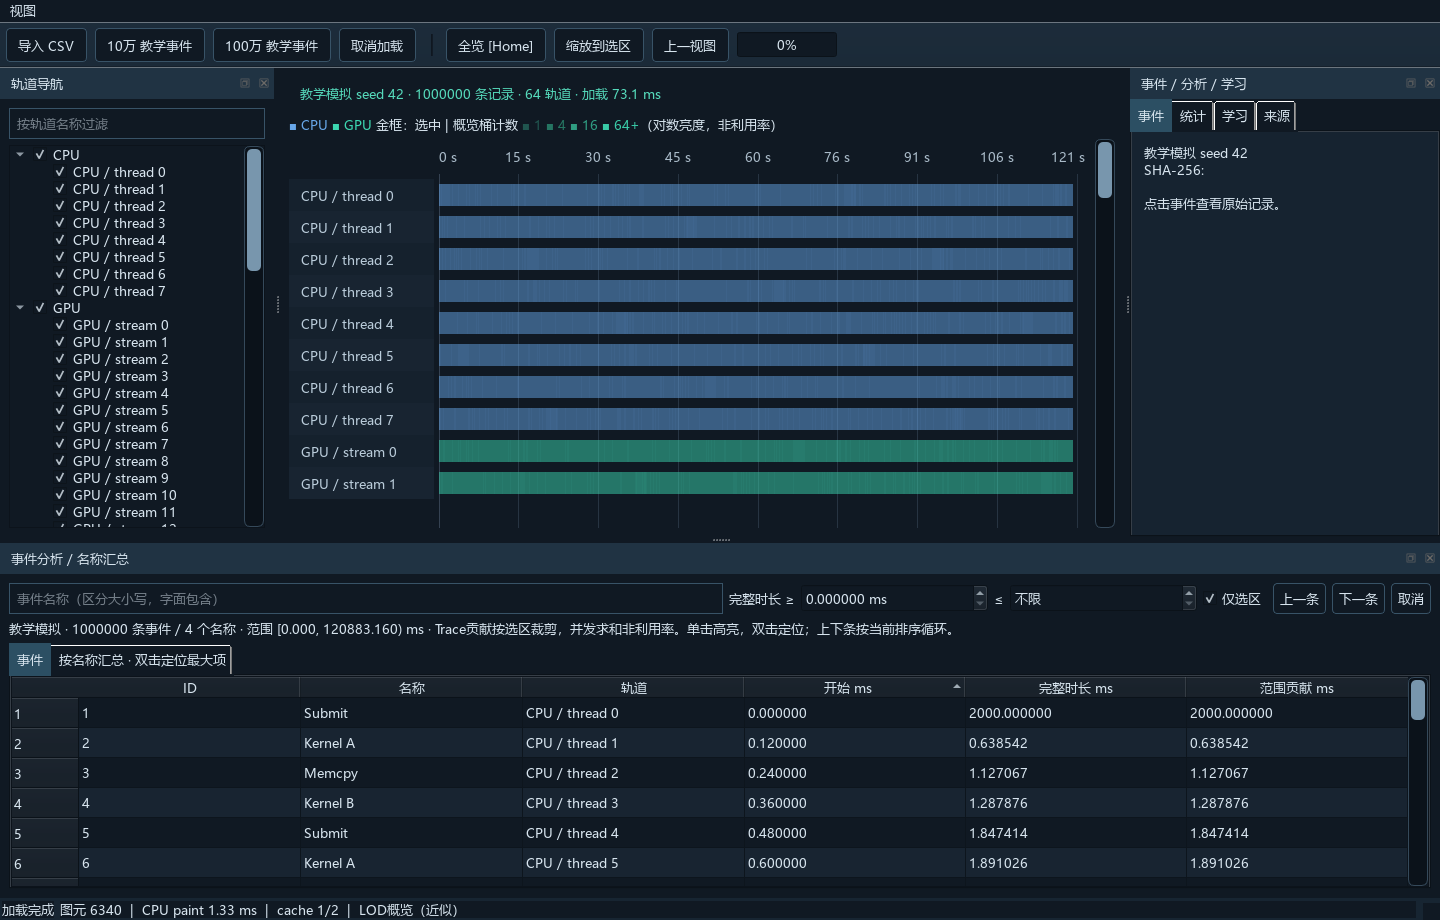
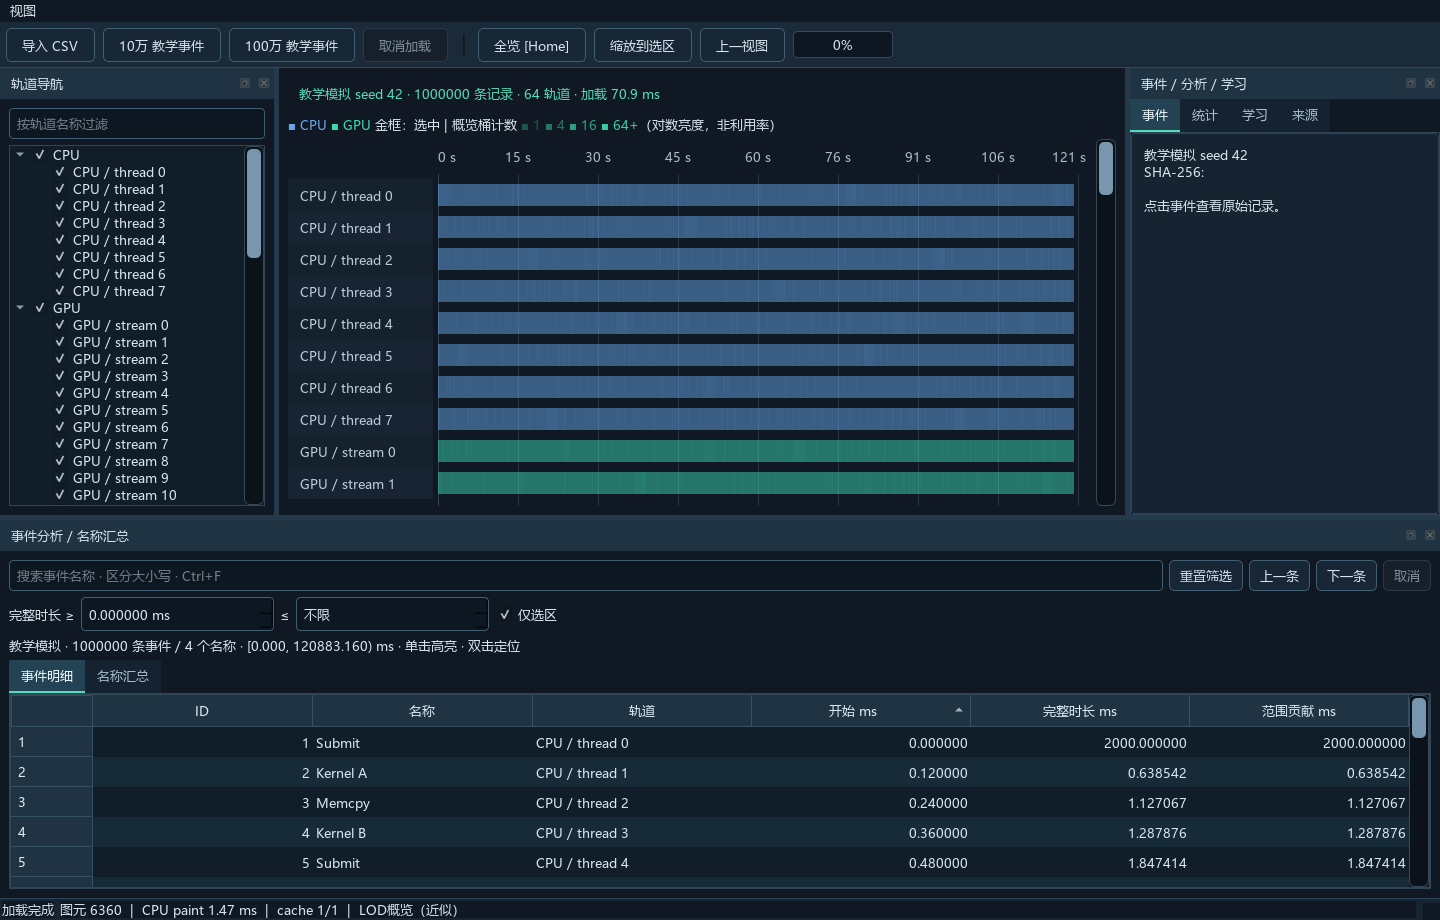
Polish dark workspace and searchable event interactions

Changed region(s): [[0.0, 0.0913, 1.0, 0.9739], [0.0, 0.0304, 0.625, 0.0609]]

diff --git a/src/ui_widgets/event_explorer.cpp b/src/ui_widgets/event_explorer.cpp
@@ -31,6 +31,10 @@ QVariant EventAnalysisModel::data(const QModelIndex& index,int role) const {
     if(!index.isValid() || index.column()<0 || index.column()>=columnCount()) return {};
     const auto* event=eventAt(index.row()); if(!event) return {};
     if(role==Qt::UserRole) return QVariant::fromValue(qulonglong(event->id));
+    if(role==Qt::TextAlignmentRole) {
+        const bool number=groups_?index.column()>0:(index.column()==0 || index.column()>=3);
+        return int((number?Qt::AlignRight:Qt::AlignLeft)|Qt::AlignVCenter);
+    }
     if(role!=Qt::DisplayRole && role!=Qt::ToolTipRole) return {};
     if(groups_) {
         const auto& group=result_->groups[std::size_t(index.row())];
@@ -69,9 +73,12 @@ void EventAnalysisModel::sort(int column,Qt::SortOrder order) {
 EventExplorer::EventExplorer(QWidget* parent):QWidget(parent) {
     setObjectName("eventExplorer");
     setToolTip(QStringLiteral("筛选只作用于本面板；现有帧分析导出仍使用统计页的组和选区，不包含这里的名称/时长筛选。"));
-    auto* layout=new QVBoxLayout(this); auto* controls=new QHBoxLayout;
+    auto* layout=new QVBoxLayout(this); auto* searchRow=new QHBoxLayout; auto* controls=new QHBoxLayout;
     text_=new QLineEdit; text_->setObjectName("eventSearch");
-    text_->setPlaceholderText(QStringLiteral("事件名称（区分大小写，字面包含）")); controls->addWidget(text_,2);
+    text_->setPlaceholderText(QStringLiteral("搜索事件名称 · 区分大小写 · Ctrl+F")); text_->setClearButtonEnabled(true);
+    text_->setAccessibleName(QStringLiteral("搜索事件名称")); searchRow->addWidget(text_,1);
+    auto* reset=new QPushButton(QStringLiteral("重置筛选")); reset->setObjectName("eventReset");
+    reset->setToolTip(QStringLiteral("清空名称和时长条件，恢复仅选区；保留当前排序。")); searchRow->addWidget(reset);
     minimum_=new QDoubleSpinBox; maximum_=new QDoubleSpinBox;
     minimum_->setObjectName("eventMinimum"); maximum_->setObjectName("eventMaximum");
     for(auto* spin:{minimum_,maximum_}) { spin->setRange(0,1e9); spin->setDecimals(6); spin->setSuffix(" ms"); }
@@ -83,7 +90,8 @@ EventExplorer::EventExplorer(QWidget* parent):QWidget(parent) {
     previous_=new QPushButton(QStringLiteral("上一条")); next_=new QPushButton(QStringLiteral("下一条"));
     previous_->setObjectName("eventPrevious"); next_->setObjectName("eventNext");
     cancel_=new QPushButton(QStringLiteral("取消")); cancel_->setObjectName("eventCancel");
-    controls->addWidget(previous_); controls->addWidget(next_); controls->addWidget(cancel_); layout->addLayout(controls);
+    searchRow->addWidget(previous_); searchRow->addWidget(next_); searchRow->addWidget(cancel_);
+    controls->addStretch(); layout->addLayout(searchRow); layout->addLayout(controls);
     status_=new QLabel(QStringLiteral("加载数据后可搜索事件")); status_->setWordWrap(true); layout->addWidget(status_);
     events_=new EventAnalysisModel(false,this); groups_=new EventAnalysisModel(true,this);
     events_->setObjectName("eventResultsModel"); groups_->setObjectName("eventGroupsModel");
@@ -94,15 +102,21 @@ EventExplorer::EventExplorer(QWidget* parent):QWidget(parent) {
         table->setSelectionBehavior(QAbstractItemView::SelectRows); table->setSelectionMode(QAbstractItemView::SingleSelection);
         table->setEditTriggers(QAbstractItemView::NoEditTriggers); table->setAlternatingRowColors(true);
         table->verticalHeader()->setSectionResizeMode(QHeaderView::Fixed);
+        table->verticalHeader()->setDefaultSectionSize(30); table->setShowGrid(false);
         table->horizontalHeader()->setSectionResizeMode(QHeaderView::Stretch);
         table->setSortingEnabled(true);
     }
     table_->sortByColumn(3,Qt::AscendingOrder); summary_->sortByColumn(2,Qt::DescendingOrder);
-    auto* tabs=new QTabWidget; tabs->addTab(table_,QStringLiteral("事件")); tabs->addTab(summary_,QStringLiteral("按名称汇总 · 双击定位最大项"));
+    auto* tabs=new QTabWidget; tabs->addTab(table_,QStringLiteral("事件明细")); tabs->addTab(summary_,QStringLiteral("名称汇总"));
+    tabs->setTabToolTip(0,QStringLiteral("单击高亮，双击定位；上下条按当前事件排序循环。"));
+    tabs->setTabToolTip(1,QStringLiteral("同名事件聚合；双击定位贡献最大项。并发时长求和不是利用率。"));
     layout->addWidget(tabs,1);
     debounce_.setSingleShot(true); debounce_.setInterval(180);
     connect(&debounce_,&QTimer::timeout,this,&EventExplorer::submit);
     connect(text_,&QLineEdit::textChanged,this,&EventExplorer::schedule);
+    connect(reset,&QPushButton::clicked,this,&EventExplorer::resetFilters);
+    // 回车立即提交，停止防抖计时，避免同一输入重复提交。
+    connect(text_,&QLineEdit::returnPressed,this,[this] { schedule(); debounce_.stop(); submit(); });
     connect(minimum_,&QDoubleSpinBox::valueChanged,this,&EventExplorer::schedule);
     connect(maximum_,&QDoubleSpinBox::valueChanged,this,&EventExplorer::schedule);
     connect(selectedOnly_,&QCheckBox::toggled,this,&EventExplorer::schedule);
@@ -136,17 +150,26 @@ EventExplorer::EventExplorer(QWidget* parent):QWidget(parent) {
         const auto result=controller_.result(); events_->setResult(result); groups_->setResult(result);
         if(selectedId_) selectId(*selectedId_);
         setReady(true); cancel_->setEnabled(false);
-        status_->setText(QStringLiteral("%1 · %2 条事件 / %3 个名称 · 范围 [%4, %5) ms · %6。单击高亮，双击定位；上下条按当前排序循环。")
+        status_->setText(QStringLiteral("%1 · %2 条事件 / %3 个名称 · [%4, %5) ms · %6")
             .arg(result->source->synthetic?QStringLiteral("教学模拟"):QStringLiteral("外部输入"))
             .arg(qulonglong(result->rows.size())).arg(qulonglong(result->groups.size()))
             .arg(double(result->filter.range.begin)/1e6,0,'f',3).arg(double(result->filter.range.end)/1e6,0,'f',3)
-            .arg(result->source->frames?QStringLiteral("Present归属，贡献为完整间隔，非GPU时长"):
-                QStringLiteral("Trace贡献按选区裁剪，并发求和非利用率")));
+            .arg(result->rows.empty()?QStringLiteral("无匹配，请调整筛选"):QStringLiteral("单击高亮 · 双击定位")));
+        status_->setToolTip(result->source->frames?QStringLiteral("Present归属，贡献为完整间隔，非GPU时长。"):
+            QStringLiteral("Trace贡献按选区裁剪，并发求和非利用率。"));
     });
     connect(&controller_,&EventAnalysisController::failed,this,[this](const QString& error) {
         setReady(false); cancel_->setEnabled(false); status_->setText(QStringLiteral("搜索失败：")+error);
     });
     setReady(false); cancel_->setEnabled(false);
+}
+/// 聚焦而不改动条件或发起查询，保留当前结果。
+void EventExplorer::focusSearch() { text_->setFocus(Qt::ShortcutFocusReason); text_->selectAll(); }
+/// 阻断四个输入的逐项通知，批量重置后仅调度一次。
+void EventExplorer::resetFilters() {
+    const QSignalBlocker textBlock(text_),minimumBlock(minimum_),maximumBlock(maximum_),selectionBlock(selectedOnly_);
+    text_->clear(); minimum_->setValue(0); maximum_->setValue(0); selectedOnly_->setChecked(true);
+    schedule(); focusSearch();
 }
 /// 相同上下文不因帧表独立排序而重复搜索，换会话不继承旧ID。
 void EventExplorer::setContext(Snapshot source,std::vector<std::uint32_t> tracks,std::optional<TimeRange> selection) {

diff --git a/src/ui_widgets/theme.cpp b/src/ui_widgets/theme.cpp
@@ -1,0 +1,54 @@
+/// @file theme.cpp
+/// @brief 深色工作台样式，显式区分焦点、选择、禁用、悬停和滚动滑块。
+#include "ui_widgets/theme.h"
+namespace gpuview {
+/// 仅影响绘制外观，不修改模型、查询和缓存键。
+QString darkTheme() {
+    return QStringLiteral(R"(
+QMainWindow,QWidget { background:#101923; color:#d7e4ee; }
+QToolBar { background:#1b2a38; padding:6px; spacing:8px; border-bottom:1px solid #304555; }
+QToolButton,QPushButton { padding:6px 10px; border:1px solid #415e73; border-radius:5px; background:#182735; }
+QToolButton:hover,QPushButton:hover { background:#29485e; border-color:#7199b5; }
+QToolButton:pressed,QPushButton:pressed { background:#31586e; }
+QToolButton:disabled,QPushButton:disabled { color:#7e8e9b; background:#15202b; border-color:#293947; }
+QPushButton:focus,QToolButton:focus { border:1px solid #55dabb; }
+QDockWidget::title { background:#203343; padding:7px; font-weight:600; }
+QMainWindow::separator { background:#243949; width:5px; height:5px; }
+QMainWindow::separator:hover { background:#55dabb; }
+QTextBrowser { background:#162330; border:1px solid #2e4353; border-radius:4px; padding:8px; }
+QStatusBar { background:#172532; border-top:1px solid #304555; }
+QLineEdit,QComboBox,QDoubleSpinBox { padding:5px; border:1px solid #415e73; border-radius:4px; background:#0d1721; selection-background-color:#315f76; }
+QLineEdit:focus,QComboBox:focus,QDoubleSpinBox:focus { border-color:#55dabb; }
+QLineEdit:disabled,QDoubleSpinBox:disabled { color:#7e8e9b; border-color:#293947; }
+QCheckBox { spacing:6px; padding:3px; }
+QTreeWidget,QTableView { background:#111e29; alternate-background-color:#172a38; border:1px solid #304555; selection-background-color:#315c73; selection-color:#ffffff; gridline-color:#273d4e; }
+QTableView::item { padding:3px 6px; }
+QTableView::item:selected,QTreeWidget::item:selected { background:#315c73; color:#ffffff; }
+QTableView::item:hover,QTreeWidget::item:hover { background:#253e50; }
+QHeaderView::section { background:#203343; color:#dceaf3; padding:5px 7px; border:0; border-right:1px solid #365063; border-bottom:1px solid #365063; }
+QTableCornerButton::section { background:#203343; border:1px solid #365063; }
+QTabWidget::pane { border:1px solid #304555; }
+QTabBar::tab { padding:7px 12px; background:#152330; color:#a8bdcd; border-bottom:2px solid transparent; }
+QTabBar::tab:selected { background:#234354; color:#f0fafc; border-bottom:2px solid #55dabb; }
+QTabBar::tab:hover { background:#294353; }
+QScrollBar:vertical { background:#0b121a; width:20px; margin:0; border:1px solid #35495a; border-radius:6px; }
+QScrollBar::handle:vertical { background:#7896ad; min-height:40px; margin:2px; border-radius:5px; }
+QScrollBar::handle:vertical:hover { background:#a5c9e0; }
+QScrollBar::handle:vertical:pressed { background:#55dabb; }
+QScrollBar::handle:vertical:disabled { background:#243442; }
+QScrollBar::add-line:vertical,QScrollBar::sub-line:vertical { height:0; border:0; background:transparent; }
+QScrollBar::add-page:vertical,QScrollBar::sub-page:vertical { background:transparent; }
+QScrollBar:horizontal { background:#0b121a; height:16px; border:1px solid #35495a; }
+QScrollBar::handle:horizontal { background:#7896ad; min-width:40px; margin:2px; border-radius:4px; }
+QScrollBar::handle:horizontal:hover { background:#a5c9e0; }
+QScrollBar::add-line:horizontal,QScrollBar::sub-line:horizontal { width:0; background:transparent; }
+QScrollBar::add-page:horizontal,QScrollBar::sub-page:horizontal { background:transparent; }
+QProgressBar { border:1px solid #35495a; border-radius:4px; text-align:center; background:#0d1721; }
+QProgressBar::chunk { background:#2d8e7b; }
+QMenu { background:#192c3b; border:1px solid #415e73; padding:4px; }
+QMenu::item { padding:6px 22px; }
+QMenu::item:selected { background:#315c73; }
+QToolTip { background:#243e50; color:#f0fafc; border:1px solid #7199b5; padding:6px; }
+)");
+}
+}

diff --git a/src/ui_widgets/main_window.cpp b/src/ui_widgets/main_window.cpp
@@ -1,6 +1,7 @@
 /// @file src/ui_widgets/main_window.cpp
 /// @brief Widgets应用组装入口；连接导航、时间轴、统计与导出，不直接解析文件或跑重计算。
 #include "ui_widgets/main_window.h"
+#include "ui_widgets/theme.h"
 #include "ui_widgets/frame_time_widget.h"
 #include "ui_widgets/frame_details_panel.h"
 #include "ui_widgets/event_explorer.h"
@@ -25,11 +26,12 @@
 #include <QTableWidget>
 #include <QHeaderView>
 #include <QMenuBar>
+#include <QAction>
 namespace gpuview {
 /// 组装Dock、工具栏及连接；只协调界面，解析与大规模计算交给后台模块。
 MainWindow::MainWindow(QWidget* parent) : QMainWindow(parent) {
     setWindowTitle(QStringLiteral("GPUView · 性能分析与学习工作台")); resize(1440, 920);
-    setStyleSheet(QStringLiteral("QMainWindow,QWidget{background:#101923;color:#d7e4ee;} QToolBar{background:#1b2a38;padding:6px;spacing:8px;} QToolButton,QPushButton{padding:6px;border:1px solid #385367;border-radius:4px;} QToolButton:hover,QPushButton:hover{background:#2c4f63;} QDockWidget::title{background:#203343;padding:7px;} QTextBrowser{background:#162330;border:0;padding:8px;} QStatusBar{background:#172532;} QLineEdit,QComboBox{padding:5px;border:1px solid #385367;} QTreeWidget,QTableWidget,QTableView{alternate-background-color:#182431;} QTabBar::tab{padding:8px;} QTabBar::tab:selected{background:#2c4f63;} QScrollBar:vertical{background:#0b121a;width:20px;margin:0;border:1px solid #35495a;border-radius:6px;} QScrollBar::handle:vertical{background:#7896ad;min-height:40px;margin:2px;border-radius:5px;} QScrollBar::handle:vertical:hover{background:#a5c9e0;} QScrollBar::handle:vertical:pressed{background:#55dabb;} QScrollBar::handle:vertical:disabled{background:#243442;} QScrollBar::add-line:vertical,QScrollBar::sub-line:vertical{height:0;border:0;background:transparent;} QScrollBar::add-page:vertical,QScrollBar::sub-page:vertical{background:transparent;}"));
+    setStyleSheet(darkTheme());
     auto* toolbar = addToolBar(QStringLiteral("数据与视图")); toolbar->setMovable(false);
     // 文件对话框只采集路径，真正读取交给会话控制器，GUI不解析CSV。
     toolbar->addAction(QStringLiteral("导入 CSV"), this, [this] {
@@ -106,6 +108,11 @@ MainWindow::MainWindow(QWidget* parent) : QMainWindow(parent) {
     connect(timeline_,&TimelineWidget::eventPicked,explorer,[explorer](qulonglong id,const QString&) { if(id) explorer->selectId(id); });
     auto* viewMenu = menuBar()->addMenu(QStringLiteral("视图"));
     viewMenu->addAction(tracksDock->toggleViewAction()); viewMenu->addAction(detailDock->toggleViewAction()); viewMenu->addAction(framesDock->toggleViewAction()); viewMenu->addAction(eventsDock->toggleViewAction());
+    // 窗口级搜索入口先恢复可能关闭的Dock，再聚焦输入，避免隐藏面板吞掉快捷键。
+    auto* searchAction=viewMenu->addAction(QStringLiteral("搜索事件"),this,[eventsDock,explorer] {
+        eventsDock->show(); eventsDock->raise(); explorer->focusSearch();
+    });
+    searchAction->setObjectName("searchEventsAction"); searchAction->setShortcut(QKeySequence::Find);
     auto range = std::make_shared<std::optional<TimeRange>>();
     auto sortState = std::make_shared<std::pair<FrameSort,bool>>(FrameSort::Start,false);
     // 统一汇总当前快照、轨道、组选项、范围和排序；先清空旧范围显示，再发后台统计请求。

diff --git a/src/app/main.cpp b/src/app/main.cpp
@@ -1,6 +1,8 @@
 /// @file src/app/main.cpp
 /// @brief 应用进程入口；建立Qt事件循环，处理教学/CSV启动和离屏截图参数。
 #include "ui_widgets/main_window.h"
+#include "ui_widgets/event_explorer.h"
+#include "ui_widgets/frame_details_panel.h"
 #include <QApplication>
 #include <QTimer>
 #include <QFile>
@@ -27,14 +29,22 @@ int main(int argc, char** argv) {
     const int capture = args.indexOf("--screenshot");
     if (capture >= 0 && capture + 1 < args.size()) {
         const auto path = args[capture + 1];
-        // 快照就绪后安排截图；窗口作为连接上下文，销毁时自动断开，捕获路径按值保存。
+        // 等待真实分析结果，不能用固定1秒延迟假定百万事件已完成。
         QObject::connect(window.controller(), &gpuview::SessionController::snapshotReady, &window, [&window, path, analysis = args.contains("--analysis")] {
-            // 等待布局与异步统计有机会刷新后截图；成功/失败用退出码反馈，不将等待时长作为性能测量。
-            QTimer::singleShot(1000, &window, [&window, path, analysis] {
+            auto* readyTimer=new QTimer(&window); readyTimer->setInterval(100);
+            // 查询只读发布状态；零条结果也算完成，统计失败由全局超时返回非零退出码。
+            QObject::connect(readyTimer,&QTimer::timeout,&window,[&window,path,analysis,readyTimer] {
+                const auto snapshot=window.controller()->snapshot();
+                const auto events=window.findChild<gpuview::EventAnalysisModel*>("eventResultsModel")->result();
+                if(!events || events->source!=snapshot) return;
+                const auto frames=window.findChild<gpuview::FrameTableModel*>()->analysis();
+                if(snapshot->frames && (!frames || frames->source!=snapshot)) return;
+                readyTimer->stop();
                 if (analysis) window.findChild<QTabWidget*>("detailTabs")->setCurrentIndex(1);
                 const bool saved = window.grab().save(path);
                 QCoreApplication::exit(saved ? 0 : 2);
             });
+            readyTimer->start();
         });
         // 事件循环启动后才发起加载；指定输入则导入，否则生成百万教学事件。
         QTimer::singleShot(0, &window, [&window, input] { if (input.isEmpty()) window.controller()->requestSynthetic(1000000); else window.controller()->requestFile(input); });

diff --git a/tests/ui/ui_tests.cpp b/tests/ui/ui_tests.cpp
@@ -19,6 +19,8 @@
 #include <QDoubleSpinBox>
 #include <QTableView>
 #include <QAbstractItemModelTester>
+#include <QAction>
+#include <QCheckBox>
 using namespace gpuview;
 /// Qt Test界面回归集合；在离屏环境模拟输入并断言可观察状态。
 class UiTests : public QObject {
@@ -45,12 +47,25 @@ private slots:
         panel.findChild<QLineEdit*>("eventSearch")->setText("absent");
         QTRY_VERIFY_WITH_TIMEOUT(model->result() && model->result()->filter.text=="absent",5000);
         QCOMPARE(model->rowCount(),0); QVERIFY(!panel.findChild<QPushButton*>("eventNext")->isEnabled());
+        panel.findChild<QDoubleSpinBox*>("eventMinimum")->setValue(1);
+        panel.findChild<QDoubleSpinBox*>("eventMaximum")->setValue(2);
+        panel.findChild<QCheckBox*>("eventSelectionOnly")->setChecked(false);
+        QTest::mouseClick(panel.findChild<QPushButton*>("eventReset"),Qt::LeftButton);
+        QTRY_VERIFY_WITH_TIMEOUT(model->result() && model->result()->filter.text.empty(),5000);
+        QCOMPARE(model->rowCount(),1); QCOMPARE(model->result()->filter.minimum,TimeNs(0));
+        QVERIFY(!model->result()->filter.maximum); QCOMPARE(model->result()->filter.eventColumn,4);
+        QCOMPARE(model->data(model->index(0,4),Qt::TextAlignmentRole).toInt(),int(Qt::AlignRight|Qt::AlignVCenter));
     }
     /// 主窗口把搜索结果ID映射回时间轴，框选范围也传递给独立搜索面板。
     void eventExplorerWindowLink() {
         MainWindow window; window.show(); window.controller()->requestSynthetic(100000);
         auto* explorer=window.findChild<EventExplorer*>(); auto* model=explorer->findChild<EventAnalysisModel*>("eventResultsModel");
         QTRY_VERIFY_WITH_TIMEOUT(model->rowCount()>0,5000);
+        auto* dock=window.findChild<QDockWidget*>("eventsDock"); dock->hide();
+        auto* search=window.findChild<QAction*>("searchEventsAction"); QVERIFY(search);
+        QCOMPARE(search->shortcut(),QKeySequence(QKeySequence::Find)); search->trigger();
+        QVERIFY(dock->isVisible());
+        QTRY_VERIFY(explorer->findChild<QLineEdit*>("eventSearch")->hasFocus());
         const auto id=model->eventAt(0)->id;
         auto* table=explorer->findChild<QTableView*>("eventResults"); table->setCurrentIndex(model->index(0,0));
         QVERIFY(window.timeline()->selectedEvent()); QCOMPARE(window.timeline()->selectedEvent()->id,id);

diff --git a/src/ui_widgets/event_explorer.h b/src/ui_widgets/event_explorer.h
@@ -48,6 +48,8 @@ public:
     void setContext(Snapshot source,std::vector<std::uint32_t> tracks,std::optional<TimeRange> selection);
     /// 以稳定ID选择事件，信号阻断避免双向联动递归。
     void selectId(std::uint64_t id);
+    /// 将键盘焦点移到名称输入并选中文字，供窗口搜索快捷键调用。
+    void focusSearch();
 signals:
     /// 单击事件高亮时间轴，不改变分析范围。
     void eventSelected(const gpuview::Event& event);
@@ -58,6 +60,8 @@ private:
     void schedule();
     /// 读取GUI条件并冻结为纯数据参数发送Worker。
     void submit();
+    /// 批量恢复筛选默认值，只发起一次新查询，保留用户排序。
+    void resetFilters();
     /// 在当前排序中循环导航；空结果不执行。
     void navigate(int step);
     /// 控制导航和取消按钮状态，避免空表仍可点击。

diff --git a/src/ui_widgets/theme.h b/src/ui_widgets/theme.h
@@ -1,0 +1,8 @@
+/// @file theme.h
+/// @brief 集中维护Widgets视觉状态，避免窗口构造函数堆积样式字符串。
+#pragma once
+#include <QString>
+namespace gpuview {
+/// 返回统一深色主题；逻辑像素由Qt处理DPI缩放，不烘焙位图控件。
+QString darkTheme();
+}

diff --git a/docs/07-interview/UI_REFINEMENT.md b/docs/07-interview/UI_REFINEMENT.md
@@ -1,0 +1,17 @@
+# 界面优化复盘
+
+## 第一轮：密度、状态与搜索入口（2026-09-30）
+
+面试问题：工具功能越来越多，怎样避免布局和反馈失控？
+
+复现场景：原事件搜索把名称、时长、选区和导航挤在同一行；每个页面自行设置样式，禁用、焦点和选中状态难区分。底部面板关闭后，用户必须在菜单中寻找恢复入口。
+
+解决思路：将主题集中到 [theme.cpp](../../src/ui_widgets/theme.cpp)，把搜索/导航与时长条件分成两行；保留高对比滚动条，数字右对齐、交替行和清晰焦点边框帮助阅读。Ctrl+F先恢复Dock再聚焦搜索框，不依赖输入框已经可见。
+
+代码例子：在 [EventExplorer::resetFilters](../../src/ui_widgets/event_explorer.cpp) 中，用四个QSignalBlocker批量恢复输入，最后只调用一次schedule。重置不改用户排序，输入编辑立即取消旧结果，回车则停止防抖立即提交。[MainWindow](../../src/ui_widgets/main_window.cpp) 用窗口级QAction组织恢复和聚焦。
+
+验证证据：[UI回归](../../tests/ui/ui_tests.cpp) 检查重置后名称/上下限/选区和排序、隐藏Dock恢复及焦点；本轮Debug/Release各57个实际用例通过。README中的百万教学/905帧截图来自Release实际运行并人工检查。
+
+额外发现：固定延迟截图可能捕获仍在分析的空表。[应用入口](../../src/app/main.cpp) 改为检查模型发布结果是否属于当前快照，再截图；30秒仍未就绪以非零码退出。等待时间不当作性能数据。
+
+不足：离屏截图不代表真实屏幕流畅度；各DPI、窄屏和屏幕阅读器仍需人工验收。样式表不解决原始数据排序成本，下一轮单独测量和优化计算链路。

diff --git a/docs/00-review/STATUS.md b/docs/00-review/STATUS.md
@@ -1,6 +1,12 @@
 # 项目状态与接续入口
 
-更新时间：2026-09-25，v0.4。当前用户方向：参考NVIDIA Nsight Systems完善分析功能。用户已授权开发与公开同步，不代表全部A/B功能已验收。
+更新时间：2026-09-30，v0.4。当前用户方向：持续复盘界面美化和性能优化。用户已授权开发与公开同步，不代表全部A/B功能已验收。
+
+## 持续优化进行中
+
+- 第一轮：集中深色主题，统一选中/悬停/禁用/焦点状态，保留高对比轨道滚动条；事件搜索分两行、重置条件、回车查询、Ctrl+F恢复面板并聚焦，数字列右对齐。
+- Debug/Release的57个实际用例均通过，扩展已有UI用例验证重置后的条件/排序和隐藏Dock恢复。截图入口改为等待搜索/帧结果就绪；百万教学和905真实帧截图已更新并目视检查。
+- 下一轮检查排序重复扫描；主题验证仅覆盖本机离屏截图，尚未完成各DPI/窄屏人工验收。
 
 ## 本轮完成：事件搜索、名称汇总与时间轴联动
 

diff --git a/README.md b/README.md
@@ -21,6 +21,8 @@
 ## 当前已实现
 
 - 固定seed的10万/100万事件、64轨道、含跨视口长事件。
+- 事件名称/完整时长筛选、名称汇总、稳定ID联动；Ctrl+F恢复搜索面板，回车立即查询，一键重置筛选并保留排序。
+- 统一深色主题、表格交替行与数字右对齐、焦点/禁用/选中状态；搜索和时长条件分行，减少横向拥挤。
 - 紧凑事件结构与每轨道区间索引，对照朴素扫描验证正确性。
 - QWidget/QPainter自绘、轨道裁剪、密集视口概览LOD、精确点击拾取。
 - 时间轴滚轮锚点缩放、名称区滚轮上下滚动、中键平移、框选、Home全览、Esc清除。
